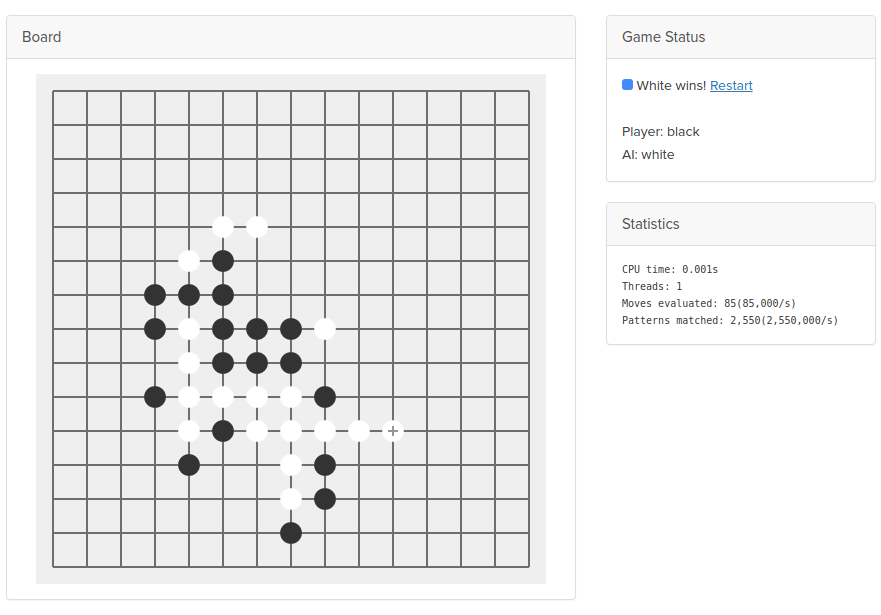
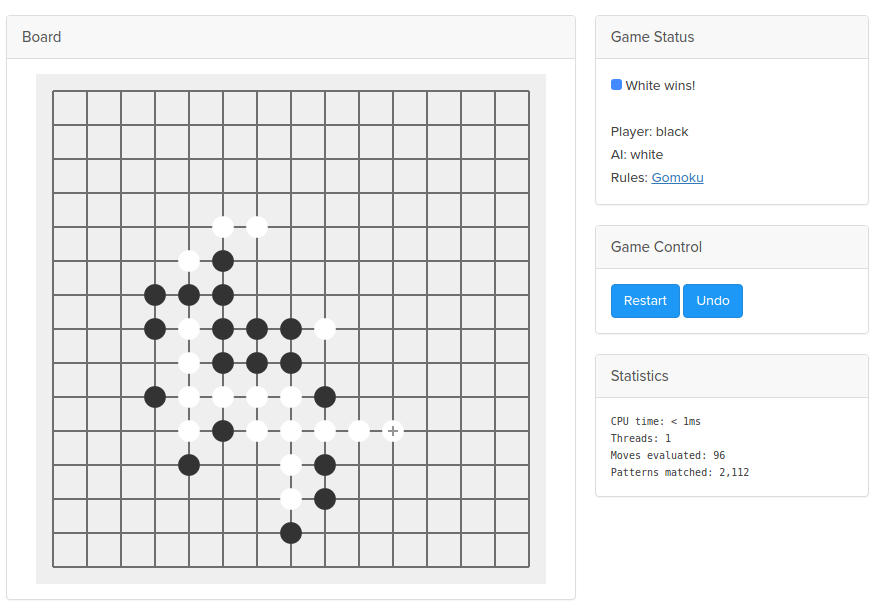
Replace GNU Make with CMake, update GUI conf. and README.md.

diff --git a/src/protocols/cli.cc b/src/protocols/cli.cc
@@ -28,7 +28,7 @@ bool RenjuProtocolCLI::beginSession(int argc, char const *argv[]) {
     if (argc < 2) {
         std::cerr << "Usage: renju-parallel -s <state>        The game state (required)" << std::endl;
         std::cerr << "                      [-p <ai_player>]  AI player (1: black, 2: white; default: 1)" << std::endl;
-        std::cerr << "                      [-d <depth>]      AI Search depth (default: 6)" << std::endl;
+        std::cerr << "                      [-d <depth>]      AI Search depth (default: 8)" << std::endl;
         std::cerr << "                      [-t <threads>]    Number of threads (default: 1)" << std::endl;
         return false;
     }
@@ -38,7 +38,7 @@ bool RenjuProtocolCLI::beginSession(int argc, char const *argv[]) {
     char gs_string[362] = {0};
     int ai_player  = 1;
     int num_threads  = 1;
-    int search_depth = 1;
+    int search_depth = 8;
 
     // Iterate through arguments
     for (int i = 0; i < argc; i++) {
@@ -73,7 +73,6 @@ bool RenjuProtocolCLI::beginSession(int argc, char const *argv[]) {
             //     gs_string[i] = '0';
             memcpy(gs_string, "0000000000000000000000000000000000000000000000000000000000000000000000000000000000000000000000000000000000000000000000000000000000000000000000000000000000000000012000000000000000001000000000000000000000000000000000000000000000000000000000000000000000000000000000000000000000000000000000000000000000000000000000000000000000000000000000000000000000000000000000000", 362);
             ai_player = 1;
-            search_depth = 8;
         }
     }
 

diff --git a/gui/server/renju.php b/gui/server/renju.php
@@ -20,14 +20,12 @@
     // A simple PHP script as the HTTP interface of renju-parallel executable.
     // Receives data via GET and responds with stdout in the body.
 
-    $cmdline = "bin/renju";
+    $cmdline = "renju";
 
     if (isset($_GET['s'])) $cmdline .= ' -s ' . $_GET['s'];
     if (isset($_GET['p'])) $cmdline .= ' -p ' . $_GET['p'];
     if (isset($_GET['t'])) $cmdline .= ' -t ' . $_GET['t'];
     // if (isset($_GET['d'])) $cmdline .= ' -d ' . $_GET['d'];
-
-    $cmdline .= ' -d 8';
 
     // Allow access form any origin
     header("Access-Control-Allow-Origin: *");

diff --git a/README.md b/README.md
@@ -30,36 +30,39 @@ git clone https://github.com/yunzhu-li/renju-parallel.git
 
 ```
 sudo apt update
-sudo apt install -y make clang nginx php7.0-fpm
+sudo apt install -y make cmake clang nginx php7.0-fpm
 ```
 
-##### 3. Build the game
+##### 3. Build and install the game
 ```
-cd renju-parallel
-make
+mkdir renju-parallel/build
+cd renju-parallel/build
+cmake .. -DENABLE_TESTING=YES
+sudo make install
 ```
 
 ##### 4. Test the binary
 ```
-bin/renju test
-```
+./renju_test
 
-After a few seconds, you should see an output like this:
-```
-{"message":"ok","result":{"ai_player":"1","cpu_time":"1833","eval_count":"4804587","move_c":"9","move_r":"8","num_threads":"1","pm_count":"144137610","winning_player":"0"}}
+...
+
+[  PASSED  ] 5 tests.
 ```
 
 ##### 5. Copy files
 Copy game files to default nginx html file location, if you have a different one, change accordingly.
 ```
-mkdir -p /var/www/html/renju/bin/
-cp bin/renju /var/www/html/renju/bin/
+cd ..
+sudo mkdir -p /var/www/html/renju/
+sudo chmod -R 777 /var/www/html/renju/
 cp gui/server/renju.php /var/www/html/renju/index.php
 cp -r gui/client/* /var/www/html/renju/
+mv /var/www/html/renju/index.html /var/www/html/renju/renju.html
 ```
 
 ##### 6. Configure HTML client
-Open `/var/www/html/renju/renju.html`, search for this line:
+Open `/var/www/html/renju/index.html`, search for this line:
 ```
 var api_base_url = 'http://127.0.0.1';
 ```
@@ -86,10 +89,9 @@ server {
 
 ##### 8. Start server
 ```
-systemctl restart nginx
-systemctl restart php7.0-fpm
+sudo systemctl restart nginx
+sudo systemctl restart php7.0-fpm
 ```
 
 ##### 9. Test setup
 Open `http://<server-ip>/renju/renju.html` in your browser, you should be able to play the game.
-
